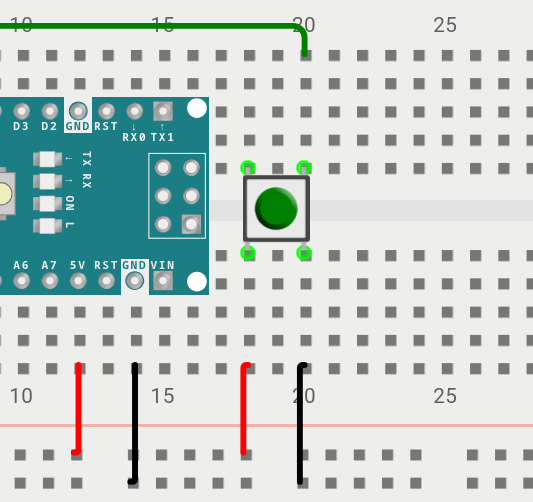
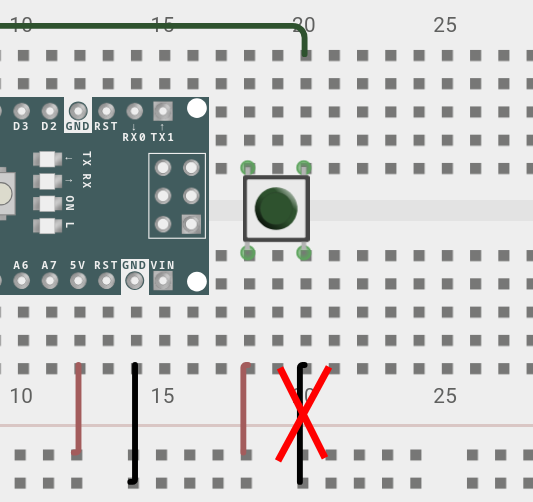
sketch and better laboration

diff --git a/book/src/digitalteknik/logik/laboration/index.md b/book/src/digitalteknik/logik/laboration/index.md
@@ -64,7 +64,7 @@ Standarden är att trycka fast IC:n i mitten av breadboarden, och dra sladd frå
 
 Slutligen, för att ge ström till kretsen använder vi oss av en `Arduino Nano`. Vi kommer **inte** programmera den.
 
-Arduinon kommer att ge ström till de integrerade kretsarna genom sina <kbd>5V</kbd> och <kbd>GND</kbd>-pinnar. Ni kommer också koppla slutliga utsignalen $y$ till pin <kbd>D13</kbd> på Arduinon för att se resultatet.
+Arduinon kommer att ge ström till de integrerade kretsarna genom sina <kbd>5V</kbd> och <kbd>GND</kbd>-pinnar. Ni kommer också koppla slutliga utsignalen $y$ till pin <kbd>A0</kbd> på Arduinon för att se resultatet.
 
 ### Knappar
 
@@ -106,9 +106,14 @@ I uppgifterna nedan ska ni koppla upp en krets som implementerar en viss logisk 
 
 Ni ska använda er av de integrerade kretsarna, en breadboard och en Arduino Nano.
 
-Utsignalen $y$ ska kopplas till pin <kbd>D13</kbd> på Arduinon, och kommer då lysa upp den inbygga LED-lampan (ofta benämnd **L**) på Arduinon när den är hög.
+Utsignalen $y$ ska kopplas till pin <kbd>A0</kbd> på Arduinon, och kommer då lysa upp den inbygga LED-lampan (ofta benämnd **L**) på Arduinon när den är hög.
 
 <ol class="exercises">
+
+<li>
+Koppla upp en krets som realiserar
+$$y = a$$
+</li>
 
 <li>
 Koppla upp en krets som realiserar 
